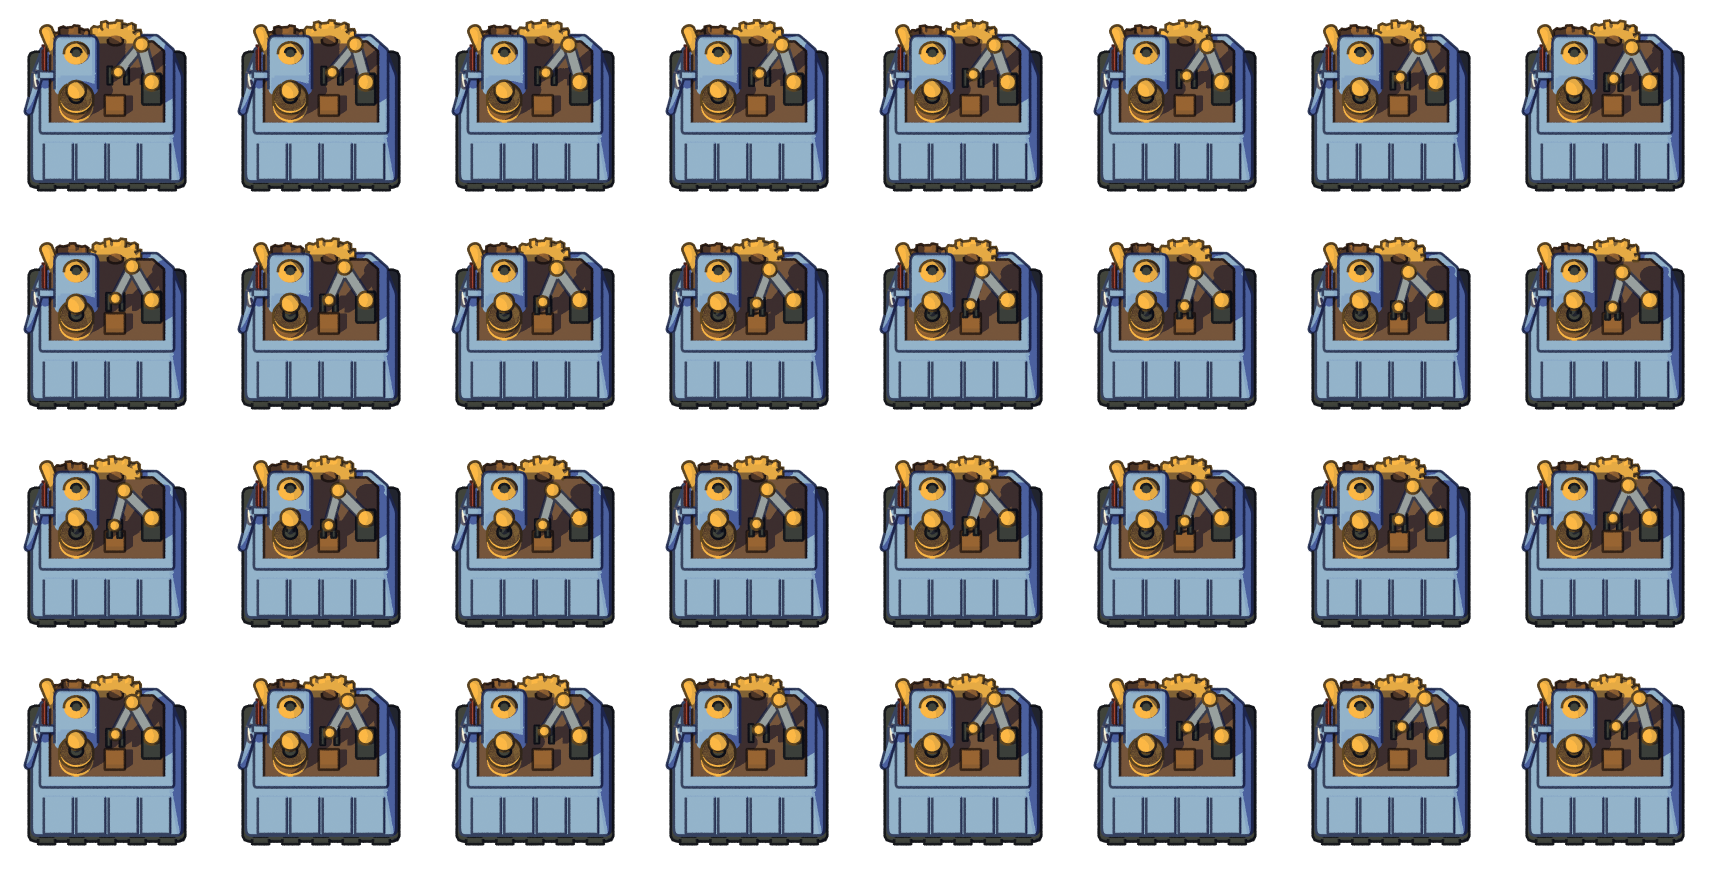
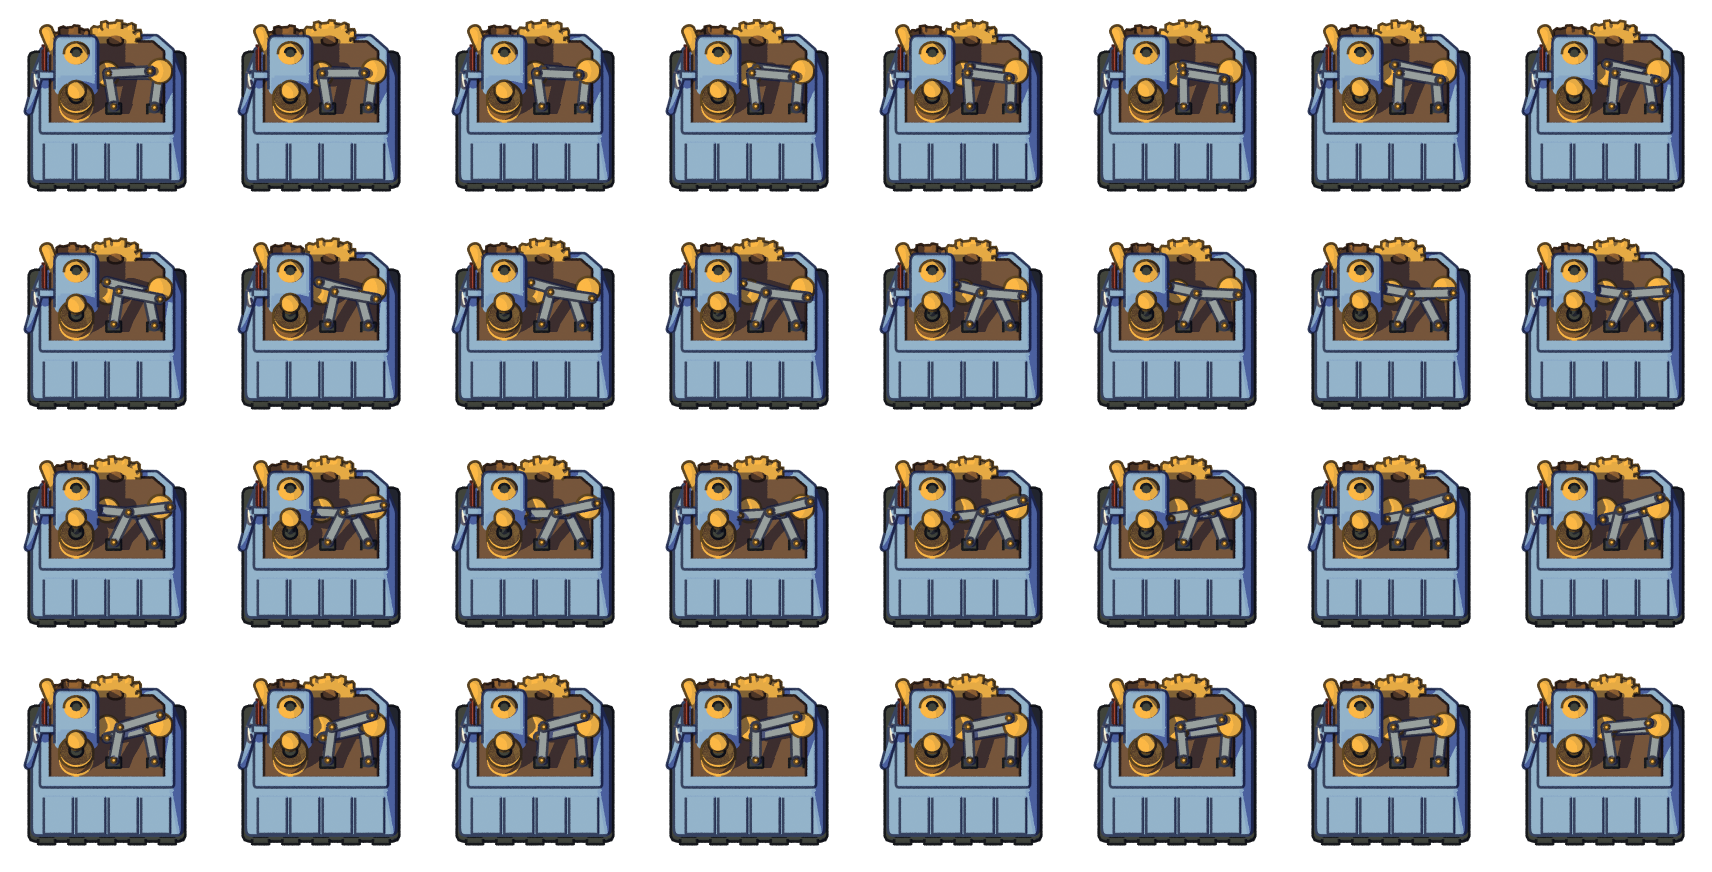
Cel-shading : genouillères à manivelle sur les assembleurs 2 et 3, à la place du bras à pince
Deux genouillères croisées, comme les bras de l'original : barres plates à bouts arrondis menées par des manivelles,
qui plient et déplient leur genou en opposition (quadrilatère articulé calculé, kit.genou et kit.barre).

diff --git a/celshading/blender/assembler.py b/celshading/blender/assembler.py
@@ -12,8 +12,8 @@ Famille commune : corps trapu sur un socle sombre, grand tablier avant incliné 
 d'un rebord ; à gauche, moteur à « œil » jaune, tambour cuivré d'où sort un piston, cheminée de laiton ; engrenages
 debout à l'arrière. Pièces mobiles de plus en plus nombreuses d'un niveau à l'autre, comme dans le jeu :
 1 : piston, engrenages ; à droite, entonnoir, long arbre et paire d'engrenages couchés (corps rouille pâle) ;
-2 : à droite, un grand bras articulé qui travaille une pièce sur le plateau (corps bleu) ;
-3 : le bras, et trois grands pistons verticaux qui dépassent au-dessus de la machine (corps vert sauge).
+2 : à droite, deux genouillères croisées menées par des manivelles, comme les bras de l'original (corps bleu) ;
+3 : les genouillères, et trois grands pistons verticaux qui dépassent au-dessus de la machine (corps vert sauge).
 `build(phase, niveau)` est paramétré pour l'animation, boucle complète sur phase 0 -> 1.
 """
 import math, os, sys
@@ -22,8 +22,8 @@ sys.path.insert(0, os.path.dirname(os.path.abspath(__file__)))
 import bpy
 from lib import (S, reset, couleur, box, cyl, gear, rod, render_scene, render_shadow, crop_centered, entity_path,
                  save_icon, sheet)
-from kit import (lisse, arrondi, prisme, coins_coupes, engrenage_debout, va_et_vient, piston, bras_articule,
-                 articulation, incliner)
+from kit import (lisse, arrondi, prisme, coins_coupes, engrenage_debout, va_et_vient, piston, barre, genou,
+                 incliner)
 
 N_FRAMES = 32
 COLUMNS = 8
@@ -32,7 +32,7 @@ SUN_SHEAR = (0.5, 0.03)          # ombre au sol : décalage par unité de hauteu
 CANVAS = 400
 PISTON_COURSE = 0.30             # course du piston du tambour (unités : 1 case = 1)
 GRANDS_PISTONS = 0.4             # course des grands pistons de l'assembleur 3 (vue d'en haut : paraît moitié moins)
-BRAS_INCLINAISON = 60           # plan du bras articulé penché vers l'arrière (degrés) : face à la caméra
+BRAS_INCLINAISON = 60           # plan des genouillères penché vers l'arrière (degrés) : face à la caméra
 
 # Par niveau : cadre de l'original (px), pixels opaques de son image 0 (largeur et bas servent au calage), cadre de
 # l'ombre et position de son centre par rapport au centre du sprite (px : écart des `shift` du prototype x 64),
@@ -49,7 +49,7 @@ NIVEAUX = {
 # couleurs mesurées sur les images cibles de l'assembleur 1 (ton « éclairé »)
 LAITON, CUIVRE, SOMBRE = "#e5aa44", "#8a5d31", "#3b3f3a"
 ROUGE, BLANC = "#b5503a", "#e4e2d4"
-ACIER = "#8a949b"                # bras articulé et tiges des grands pistons (niveaux 2 et 3)
+ACIER = "#8a949b"                # genouillères et tiges des grands pistons (niveaux 2 et 3)
 
 
 def name(niveau):
@@ -141,26 +141,25 @@ def mecanisme_1(phase, zt, a, laiton, cuivre, corps):
 
 
 def mecanisme_bras(phase, zt, niveau, laiton, cuivre, sombre, blanc):
-    """Niveaux 2 et 3, côté droit : grand bras articulé sur un pied, qui descend vers une pièce posée sur le
-    plateau et remonte (une fois par boucle) ; niveau 3 : trois grands pistons verticaux à l'arrière."""
+    """Niveaux 2 et 3, côté droit : deux genouillères croisées, comme les bras articulés de l'original (barres plates
+    à bouts arrondis, en acier) : chacune, menée par une manivelle de laiton qui fait un tour par boucle, plie et
+    déplie son genou ; elles travaillent en opposition (demi-tour d'écart). Dans un plan penché vers l'arrière, face
+    à la caméra. Niveau 3 : trois grands pistons verticaux à l'arrière."""
     acier = couleur("acier", ACIER)
-    y = -0.15
-    # pied du bras, à droite, et pièce de cuivre sur le plateau, sous la pince en bas de course
-    arrondi(box((0.8, y, zt + 0.4), (0.34, 0.38, 0.5), sombre), 0.08)
-    arrondi(box((0.14, -0.4, zt + 0.25), (0.36, 0.32, 0.2), cuivre), 0.05)
-    t = va_et_vient(phase)
-    a1 = 105 + 30 * t                     # bras : dressé, puis penché vers la gauche
-    a2 = 230 + 25 * t                     # avant-bras : vers la gauche, puis vers le bas, jusqu'à la pièce
-    epaule = (0.8, y, zt + 0.65)
+    y, z0 = -0.5, zt + 0.15                       # bas du plan penché : avant du plateau
     avant = set(bpy.data.objects)
-    poignet = bras_articule(epaule, 0.7, 0.65, a1, a2, acier, laiton, largeur=0.26, epaisseur=0.2)
-    articulation(poignet, 0.1, laiton, 0.3)
-    poignet = incliner([o for o in bpy.data.objects if o not in avant], epaule, BRAS_INCLINAISON, poignet)
-    # pince : deux mâchoires droites sous le poignet, qui se serrent en bas de course, sur la pièce
-    px, py, pz = poignet
-    for s in (-1, 1):
-        ecart = 0.15 - 0.06 * t
-        arrondi(box((px + s * ecart, py, pz - 0.12), (0.08, 0.24, 0.22), sombre), 0.03, 2)
+    # la seconde genouillère, et la première barre de chacune, un peu vers la caméra (une fois le plan penché,
+    # « en retrait » passerait sous le plateau) : jamais deux faces dans le même plan
+    for dy, manivelle, pivot, decalage in ((0.0, (0.0, z0 + 0.7), (0.85, z0 + 0.1), 0.0),
+                                           (-0.24, (0.95, z0 + 0.75), (0.12, z0 + 0.12), 180.0)):
+        yy = y + dy
+        manivelle, pivot = (manivelle[0], yy - 0.11, manivelle[1]), (pivot[0], yy, pivot[1])
+        maneton, coude = genou(manivelle, 0.18, phase * 360 + decalage, pivot, 0.75, 0.6)
+        lisse(cyl((manivelle[0], yy, manivelle[2]), 0.22, 0.1, laiton, verts=40, rot=(90, 0, 0)))   # plateau
+        arrondi(box((pivot[0], yy + 0.06, pivot[2] - 0.04), (0.26, 0.12, 0.18), sombre), 0.04, 2)   # chape du pivot
+        barre(maneton, coude, 0.17, 0.1, acier, laiton)
+        barre((coude[0], yy, coude[2]), pivot, 0.17, 0.1, acier, laiton)
+    incliner([o for o in bpy.data.objects if o not in avant], (0, y, z0), BRAS_INCLINAISON)
     if niveau == 3:
         # trois grands pistons verticaux à l'arrière, décalés d'un tiers de boucle : chemise de cuivre, tige d'acier,
         # tête blanche

diff --git a/celshading/blender/kit.py b/celshading/blender/kit.py
@@ -115,3 +115,30 @@ def incliner(objets, pivot, angle, point=None):
     for o in objets:
         o.matrix_world = rot @ o.matrix_world
     return tuple(rot @ Vector(point)) if point is not None else None
+
+
+def barre(p0, p1, largeur, epaisseur, m, axe=None, r_axe=None):
+    """Barre plate à bouts arrondis entre deux points du plan x-z (même y), comme les bielles de Factorio :
+    `largeur` dans le plan, `epaisseur` selon y ; axes de laiton aux deux bouts si `axe`."""
+    poutre(p0, p1, epaisseur, largeur, m, biseau=min(largeur, epaisseur) * 0.3)
+    for p in (p0, p1):
+        lisse(cyl(p, largeur / 2, epaisseur, m, verts=32, rot=(90, 0, 0)))
+        if axe:
+            lisse(cyl((p[0], p[1] - epaisseur * 0.3, p[2]), r_axe or largeur * 0.28, epaisseur, axe, verts=24,
+                      rot=(90, 0, 0)))
+
+
+def genou(manivelle, r_manivelle, angle, pivot, l1, l2):
+    """Genouillère (quadrilatère articulé) dans le plan x-z : une manivelle de centre `manivelle` et de rayon
+    `r_manivelle`, tournée de `angle` degrés, pousse une bielle (`l1`) jusqu'au genou, relié par une seconde
+    bielle (`l2`) à un `pivot` fixe. Renvoie (maneton, genou) ; le genou est la solution la plus haute."""
+    cx, y, cz = manivelle
+    gx, _, gz = pivot
+    px, pz = cx + r_manivelle * math.cos(math.radians(angle)), cz + r_manivelle * math.sin(math.radians(angle))
+    dx, dz = gx - px, gz - pz
+    d = math.hypot(dx, dz)
+    a = (l1 * l1 - l2 * l2 + d * d) / (2 * d)
+    h = math.sqrt(max(0.0, l1 * l1 - a * a))
+    mx, mz = px + a * dx / d, pz + a * dz / d
+    k = max(((mx - h * dz / d, mz + h * dx / d), (mx + h * dz / d, mz - h * dx / d)), key=lambda q: q[1])
+    return (px, y, pz), (k[0], y, k[1])

diff --git a/celshading/concept/descriptions/assembleurs.md b/celshading/concept/descriptions/assembleurs.md
@@ -31,16 +31,18 @@ d'engrenages couchés. Mobiles : piston du tambour (une course par boucle), engr
 **Original.** Corps et panneaux bleus. Deux bras articulés en acier sombre, à plusieurs segments, balaient le
 plateau ; engrenages au fond ; deux cylindres blancs.
 
-**Cel-shading.** Corps bleu clair, plateau brun cuivré (contraste chaud avec le bleu). À droite : **un seul grand bras
-articulé** (épaule sur un pied sombre, bras et avant-bras d'acier, articulations de laiton, pince à deux mâchoires)
-qui descend prendre une pièce de cuivre posée sur le plateau, et remonte. Mobiles : bras, pince, piston du tambour,
-engrenages du fond (plus bas qu'au 1 : le cadre de l'original est moins haut).
+**Cel-shading.** Corps bleu clair, plateau brun cuivré (contraste chaud avec le bleu). À droite : **deux genouillères
+croisées**, comme les bras de l'original (pas de pince : essayée le 12 octobre, écartée par Bastien) : barres plates
+d'acier à bouts arrondis, axes de laiton ; chacune, menée par une manivelle de laiton (un tour par boucle), plie et
+déplie son genou entre la manivelle et un pivot fixe sur le plateau ; les deux travaillent en opposition. Mobiles :
+genouillères, manivelles, piston du tambour, engrenages du fond (plus bas qu'au 1 : le cadre de l'original est moins
+haut).
 
 ## 3 — Assembleur 3
 
 **Original.** Corps vert olive, tablier vert. Les bras articulés de l'assembleur 2, et trois ou quatre grands
 pistons verticaux (chemise, tige argentée, tête blanche) qui montent et descendent en décalé, au-dessus de la machine.
 
-**Cel-shading.** Corps vert sauge (l'ancien vert de l'assembleur 1), plateau bleu. Le bras de l'assembleur 2, plus **trois grands pistons** à l'arrière (chemise de
+**Cel-shading.** Corps vert sauge (l'ancien vert de l'assembleur 1), plateau bleu. Les genouillères de l'assembleur 2, plus **trois grands pistons** à l'arrière (chemise de
 cuivre, bague de laiton, tige d'acier, tête blanche), décalés d'un tiers de boucle, qui dépassent au-dessus de la
 machine (le cadre de l'original est plus haut, pour eux).

diff --git a/docs/celshading/plan.md b/docs/celshading/plan.md
@@ -187,7 +187,8 @@ piège rencontré), `changelog.txt` à la première publication.
 - [x] Galerie : le scénario détecte le mod (variante « celshading », commit `1e27ad4`), `tools/galerie.py --mod celshading`.
 - [x] Recette d'images cibles (`celshading/concept/`), sur les outils communs (`tools/concept/`).
 - [ ] **Boîte de pièces** (`blender/kit.py`) : commencée le 12 octobre avec les assembleurs 2 et 3 (biseau, prisme,
-      engrenage debout, piston, poutre, articulation, bras articulé, `incliner` : plan penché face à la caméra) ; à
+      engrenage debout, piston, poutre, barre à bouts ronds, genouillère à manivelle, articulation, bras articulé (pour les
+      bras du lot 1.4 ?), `incliner` : plan penché face à la caméra) ; à
       compléter au fil des machines (tôle rivetée, gros boulons, tuyau à brides, bloc moteur, pieds).
 - [ ] **Allègement par les prototypes** (à cadrer avec le lot 2.8) : réglages de démarrage du mod pour la quantité de
       décorations par famille (comme `cartoon-epure`), et, si besoin, moins de variantes listées dans les
